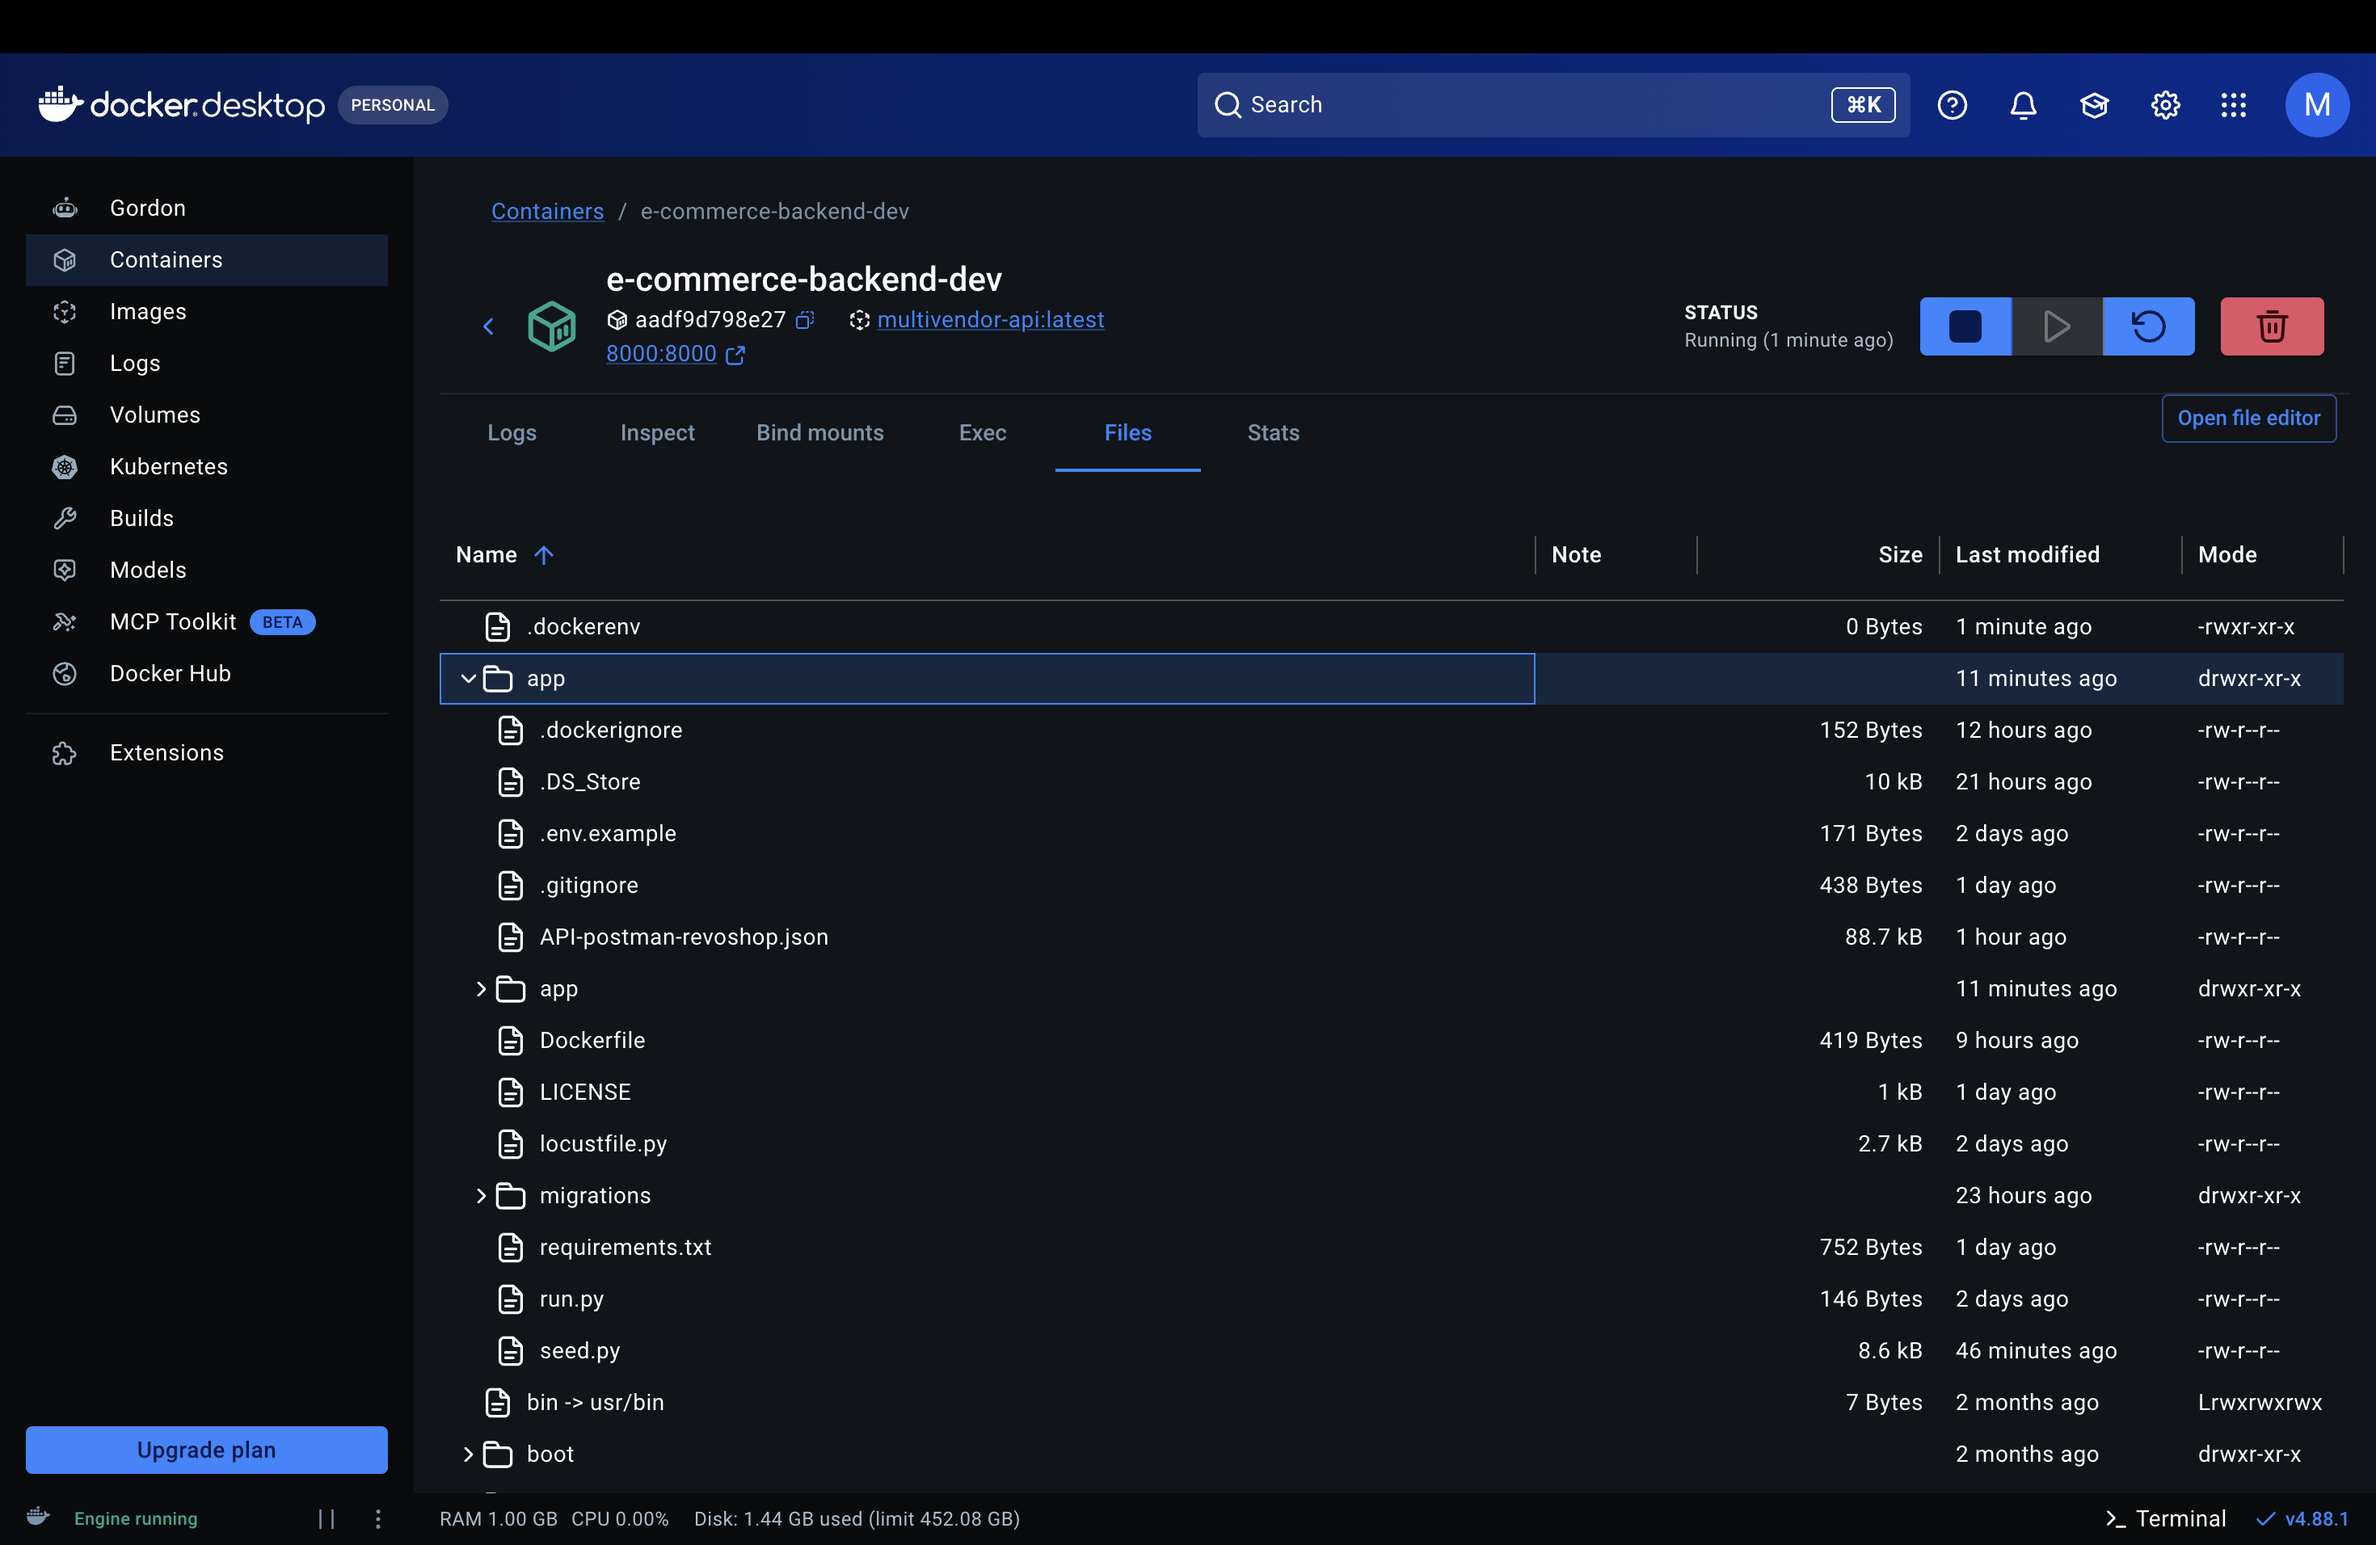
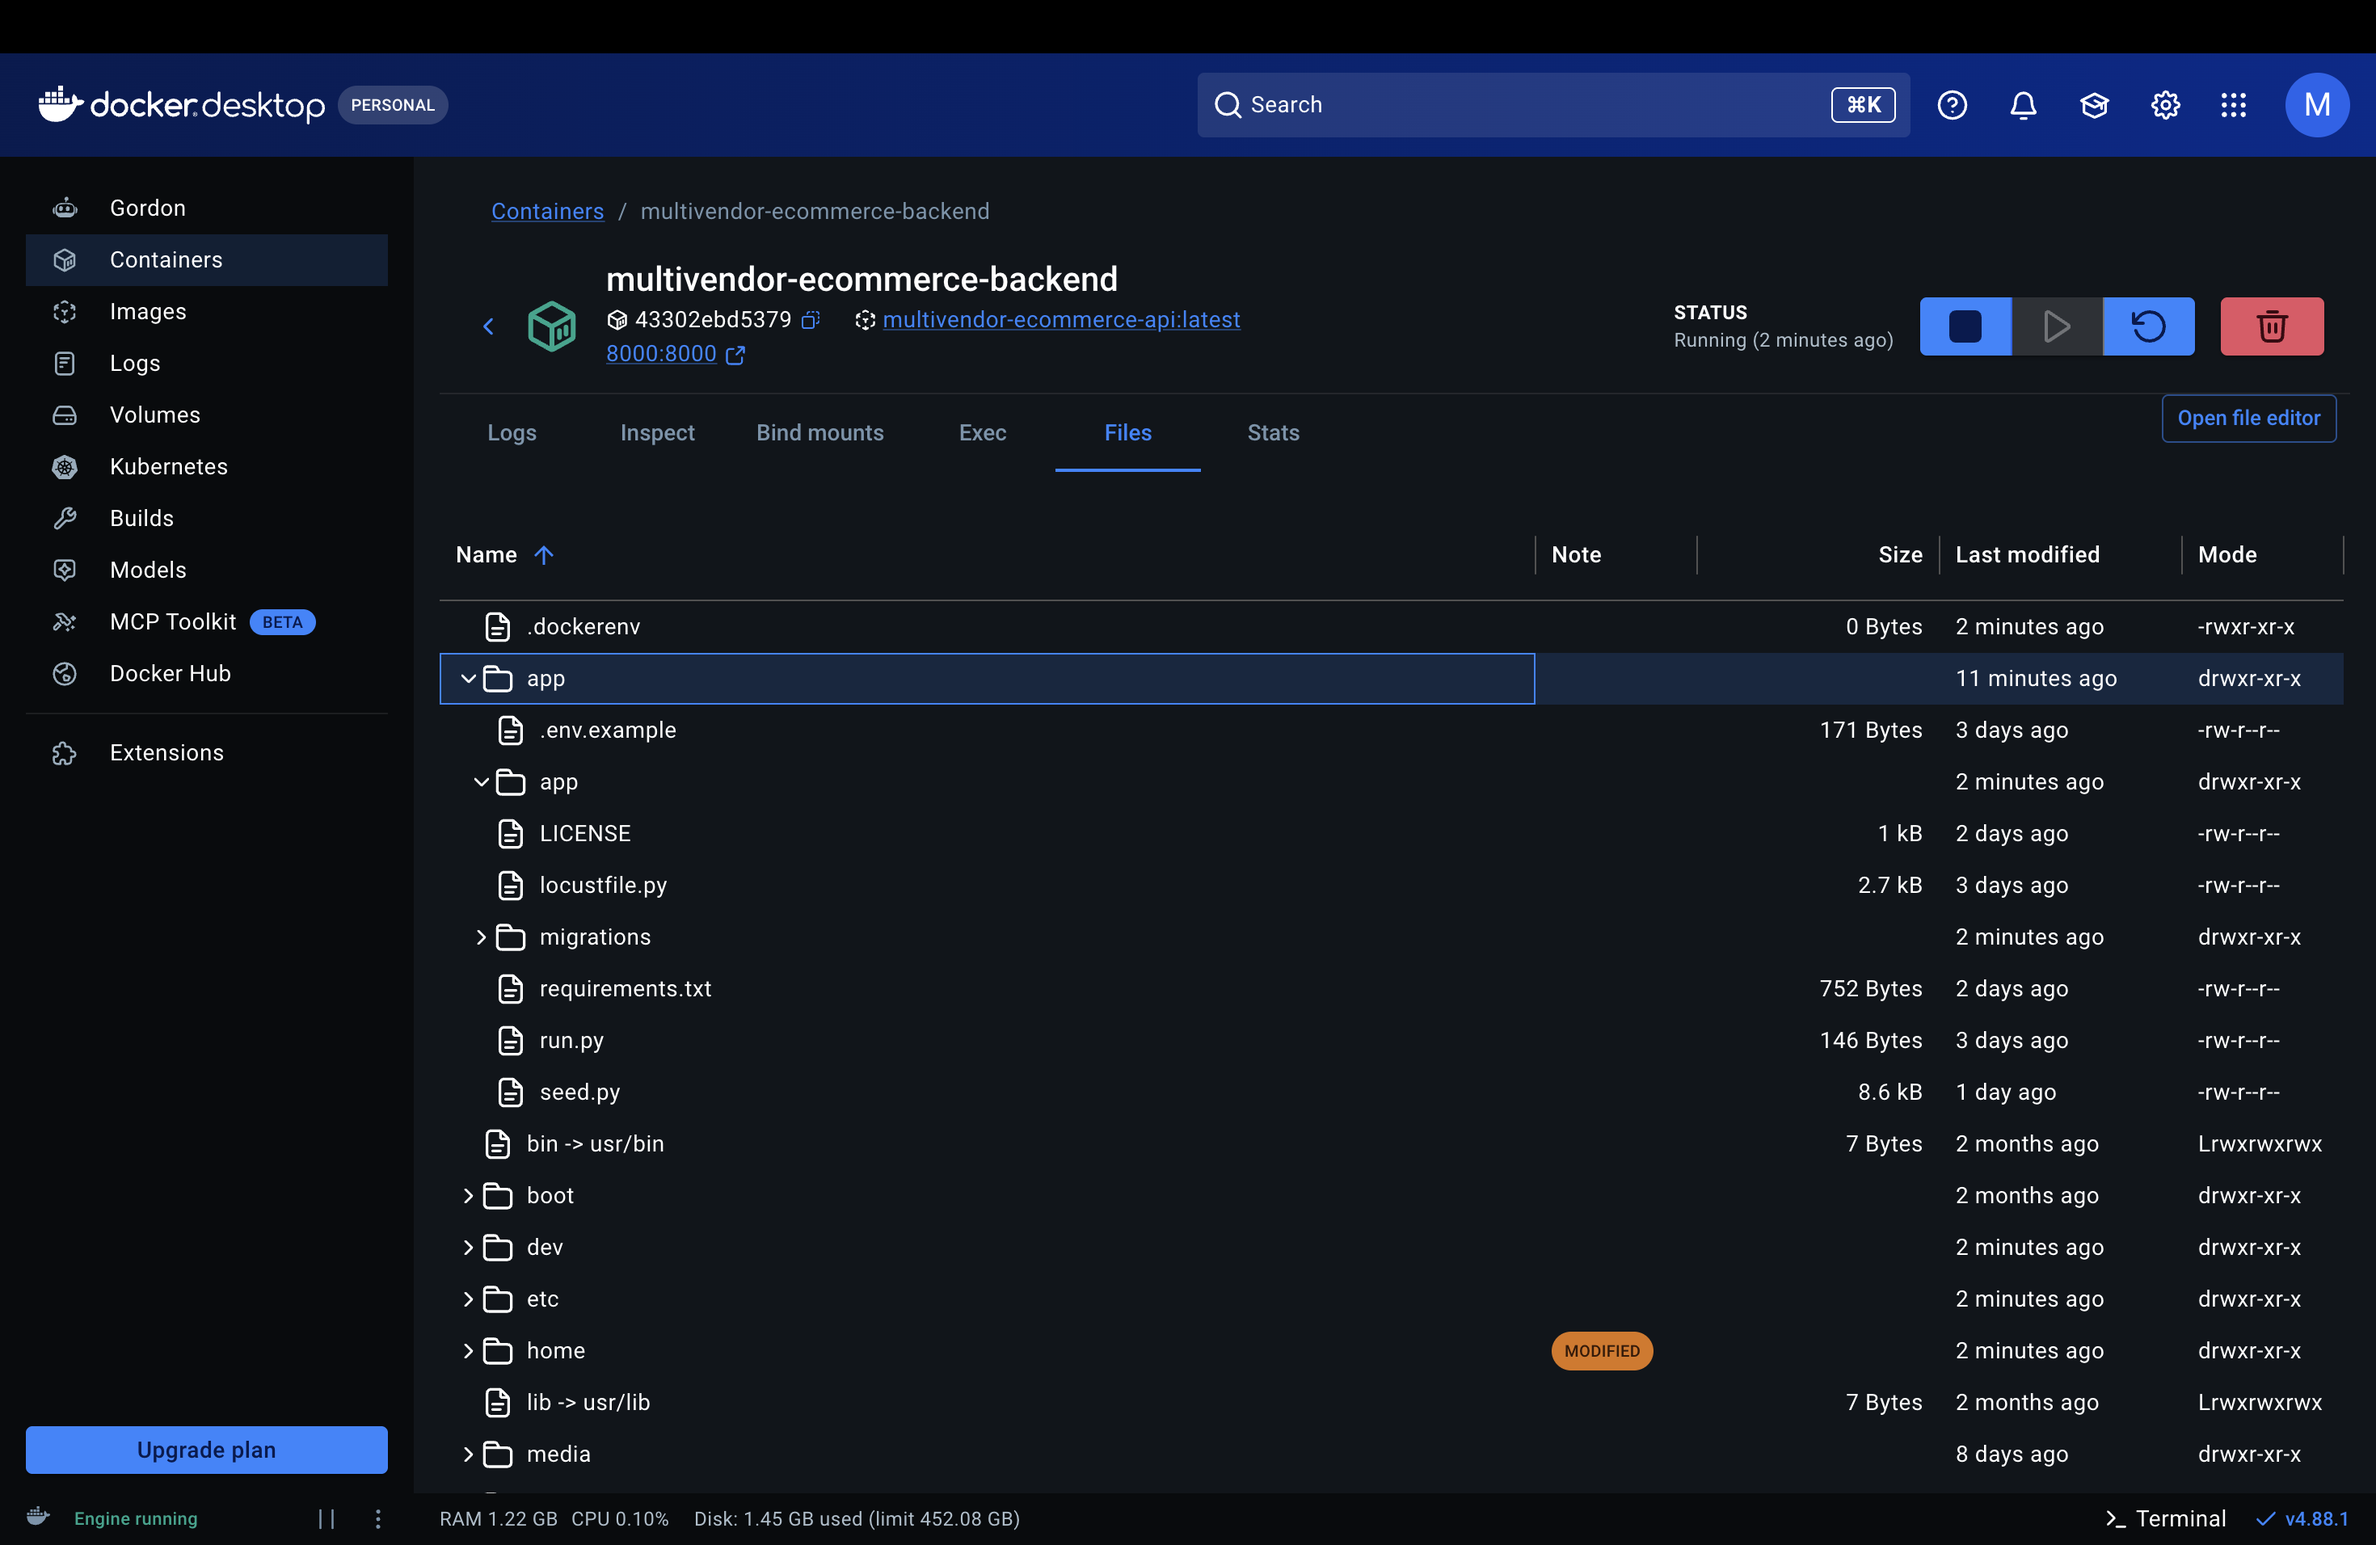
chore: Update the readme file based on the latest configuration.

diff --git a/README.md b/README.md
@@ -1,13 +1,16 @@
-# Multi-Vendor E-Commerce Backend
+# Multivendor E-Commerce Backend
 
-[![Tests](https://github.com/mfaujian/multivendor-ecommerce-backend/actions/workflows/tests.yml/badge.svg)](https://github.com/mfaujian/multivendor-ecommerce-backend/actions/workflows/tests.yml)
+[![Tests](https://img.shields.io/badge/Pytest-84%25%20Coverage-brightgreen?logo=pytest&logoColor=white)](https://github.com/mfaujian/multivendor-ecommerce-backend/actions/workflows/tests.yml)
+[![Live API](https://img.shields.io/badge/Railway-Live%20API-8A2BE2?logo=railway&logoColor=white)](https://multivendor-ecommerce-backend.up.railway.app/apidocs/)
+[![Postman](https://img.shields.io/badge/Postman-API%20Docs-FF6C37?logo=postman&logoColor=white)](./postman-ecommerce-API.json)
+[![Python](https://img.shields.io/badge/Python-Dependencies-3776AB?logo=python&logoColor=white)](./requirements.txt)
+[![Docker](https://img.shields.io/badge/Docker-Container-2496ED?logo=docker&logoColor=white)](./Dockerfile)
 [![License: MIT](https://img.shields.io/badge/License-MIT-yellow.svg)](./LICENSE)
-[![Live API](https://img.shields.io/badge/Live%20API-Railway-8A2BE2)](https://multivendor-ecommerce-backend.up.railway.app/apidocs/)
 
-> 🔗 **Live API Documentation:** [Multivendor E-Commerce](https://multivendor-ecommerce-backend.up.railway.app/apidocs/)
+---
 
 ## Table of Contents
-- [Multi-Vendor E-Commerce Backend](#multi-vendor-e-commerce-backend)
+- [Multivendor E-Commerce Backend](#multivendor-e-commerce-backend)
   - [Table of Contents](#table-of-contents)
   - [Overview](#overview)
   - [Tech Stack](#tech-stack)
@@ -454,7 +457,7 @@ While Swagger UI provides excellent endpoint-level interaction, the complete bus
 
 Click the badge below to access the complete JSON collection. You can import this file directly into your local Postman workspace to replicate the End-to-End testing environment.
 
-[![View Postman Collection](https://img.shields.io/badge/Postman-API%20Docs-orange?logo=postman)](./API-postman-revoshop.json)
+[![View Postman Collection](https://img.shields.io/badge/Postman-API%20Docs-orange?logo=postman)](./postman-ecommerce-API.json)
 
 > **Visual Proof: Example of Security & RBAC in Action when a seller tries to change other seller order**
 ![Postman showing 403 Forbidden](assets/img_readme/403forbidden.png)
